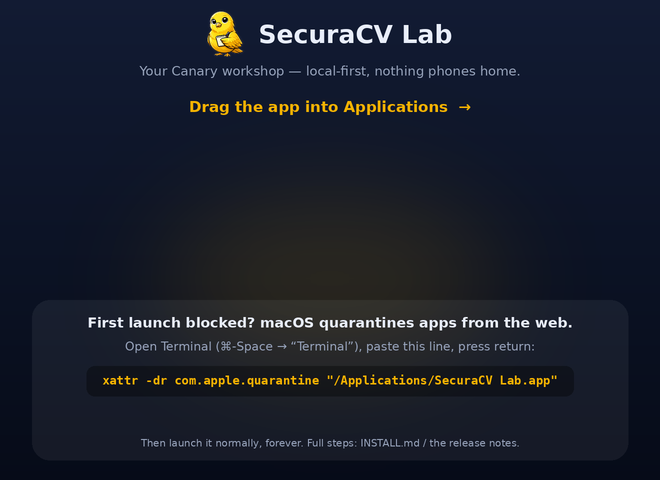
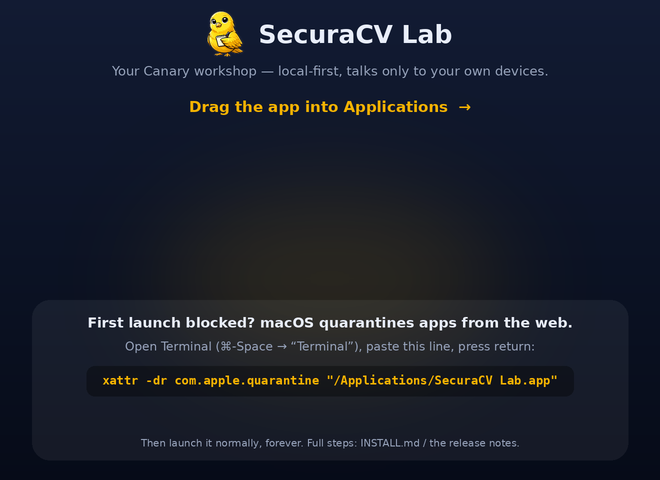
fix(lab): the network claim holds on every surface, and "signed" names what is signed
Codex review on this PR, both P2s confirmed:

- The DMG background — the first thing a macOS user sees opening the
  0.2.4 installer — still said "nothing phones home". The generator now
  says "talks only to your own devices" and the PNG is regenerated from
  it (no CI gate re-renders this; the committed bytes are the product).
- "Signed update manifest" overstated the mechanism everywhere it
  appeared (notes, README, longDescription, a self_update.rs comment):
  Tauri verifies each installer's signature from platforms[*].signature;
  the manifest's own version/notes/URLs sit outside any signature. Every
  surface now says updates are signature-verified before install, and
  stops calling the manifest itself signed.

RELEASE_LESSONS gains the dated entry: a privacy/network claim lives on
more surfaces than the file being edited — grep the old wording across
the app's whole directory, artwork generators included.

Claude-Session: https://claude.ai/code/session_01LxGmQd7QPts2UkuQaLPjmJ

Changed region(s): [[0.1515, 0.125, 0.8182, 0.1562]]

diff --git a/desktop-lab/src-tauri/src/self_update.rs b/desktop-lab/src-tauri/src/self_update.rs
@@ -4,7 +4,7 @@
 // Shape copied from the Flasher (desktop/src-tauri/src/lib.rs), as
 // RELEASE_LESSONS 2026-07-27 prescribed: poll the rolling `lab-latest`
 // prerelease pointer (NEVER `releases/latest` — that URL belongs to the
-// firmware the fleet polls), verify the signed manifest, and ask the user —
+// firmware the fleet polls), verify the signed installer it names, and ask the user —
 // with the release's own notes — before anything installs. Every check and
 // install is appended to a local update journal, so what the app did is
 // visible and recoverable, never silent.

diff --git a/desktop-lab/src-tauri/dmg/generate_background.py b/desktop-lab/src-tauri/dmg/generate_background.py
@@ -93,7 +93,7 @@ def main():
     img.paste(mascot, (gx, cy - mh // 2), mascot)
     d.text((gx + mw + gap - tl, cy - (tb - tt) / 2 - tt), title, font=title_f, fill=TEXT)
 
-    center(d, W // 2, 72 * S, "Your Canary workshop — local-first, nothing phones home.",
+    center(d, W // 2, 72 * S, "Your Canary workshop — local-first, talks only to your own devices.",
            font("DejaVuSans.ttf", 13), MUTED)
     center(d, W // 2, 108 * S, "Drag the app into Applications  →",
            font("DejaVuSans-Bold.ttf", 15), CANARY)

diff --git a/.github/RELEASE_LESSONS.md b/.github/RELEASE_LESSONS.md
@@ -145,6 +145,32 @@ declare it, and let the app render what the device says it has.
 
 ## Entries
 
+### 2026-09-03 — The release notes said the false privacy claim was fixed; the installer's own background image still made it
+
+- **Symptom:** Lab 0.2.4's notes celebrated exact network claims ("talks
+  only to your own devices") while the committed DMG background —
+  the first thing a macOS user sees when they open the installer — still
+  read "nothing phones home", and the bundler's `longDescription` (the
+  .deb/AppImage store text) called the fetched `latest.json` a "signed
+  update manifest". Caught by review on the release-bump PR, not by any
+  gate.
+- **Cause:** a privacy/network claim lives on more surfaces than the file
+  being edited: committed installer artwork (`src-tauri/dmg/background.png`
+  + its generator), `tauri.conf.json`'s `longDescription`, README, release
+  notes, and in-app copy — and nothing holds them together. And "signed
+  update manifest" overstated the mechanism: Tauri verifies the
+  installer's signature from `platforms[*].signature`; the manifest's own
+  version/notes/URLs are outside any signature.
+- **Fix:** reword every surface in one commit and regenerate the DMG
+  background from its generator (no CI byte-gate exists on it — the
+  committed PNG only changes when someone re-runs the generator, so the
+  generator edit alone fixes nothing a user sees).
+- **Applies to:** every app target with committed installer artwork or
+  store descriptions. When a network/privacy claim changes, grep the
+  claim's old wording across the app's whole directory — artwork
+  generators included — and describe signing by what is actually signed
+  (the artifact, unless the manifest itself carries a verified signature).
+
 ### 2026-08-23 — The dev channel quietly had no AMOLED: two workflows, one product list, no gate comparing them
 
 - **Symptom:** the Canary Glance AMOLED read "no published release yet" on

diff --git a/desktop-lab/RELEASE_NOTES.md b/desktop-lab/RELEASE_NOTES.md
@@ -20,10 +20,13 @@ Heading grammar is `## <version> — <YYYY-MM-DD>`.
 
 **Honest about the one thing it fetches.**
 
-- The network claim is now exact: the Lab talks only to your own devices,
-  and the one thing it fetches on its own is its signed update manifest
-  from GitHub (15 s after launch, then every 6 h). The old "nothing phones
-  home" line predated the self-updater and overclaimed.
+- The network claim is now exact, on every surface: the Lab talks only to
+  your own devices, and the one thing it fetches on its own is its update
+  manifest from GitHub (15 s after launch, then every 6 h) — every update
+  it offers is signature-verified before install. The old "nothing phones
+  home" line predated the self-updater and overclaimed; the DMG
+  installer's background image carried the same words and is regenerated
+  without them.
 - The main window's grant list no longer includes updater, dialog, or
   process: the self-update flow (manifest check, native confirm dialog,
   relaunch) runs entirely from Rust, so those plugins are out of an

diff --git a/desktop-lab/README.md b/desktop-lab/README.md
@@ -4,8 +4,9 @@ A native **Mac & Linux** application that wraps the local-first
 [`canary-local`](../canary-local) Lab in a [Tauri](https://tauri.app) shell.
 It runs the real firmware emulator, 3D device cards, and fix-it flows
 entirely on your machine — it **talks only to your own devices**; the one
-thing it fetches on its own is its signed update manifest from GitHub (15 s
-after launch, then every 6 h), which is exactly the
+thing it fetches on its own is its update manifest from GitHub (15 s after
+launch, then every 6 h) — every update it offers is signature-verified
+before install — which is exactly the
 point of a security product.
 
 > **Sibling app.** [`../desktop`](../desktop) is the **SecuraCV Flasher** — a
